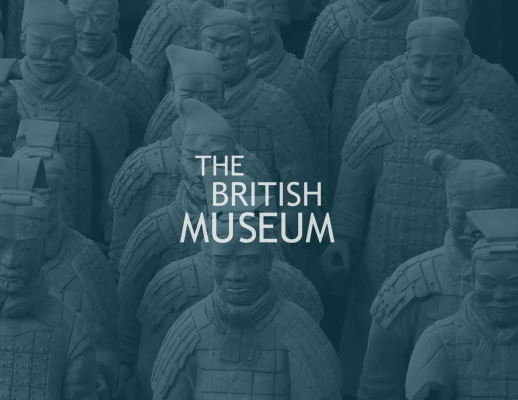
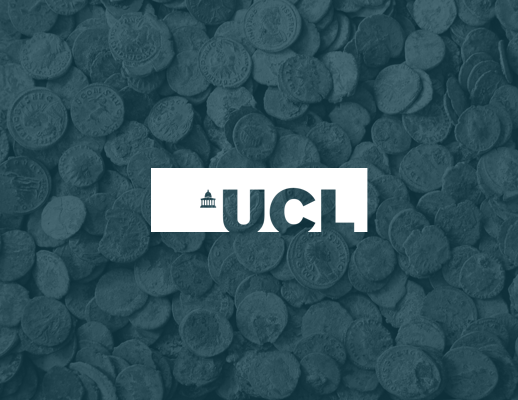
No Terracota soldiers :(

diff --git a/css/main.css b/css/main.css
@@ -869,7 +869,7 @@ only screen and (min-device-pixel-ratio: 2) {
     
   .jumbotron-BM {
     /* Reference the @2x Sprite */
-    background-image: url('../images/bg-BM@2x.png');
+    background-image: url('../images/coins@2x.png');
     /* Translate the @2x sprite's dimensions back to 1x */
    -webkit-background-size: cover;
   -moz-background-size: cover;
